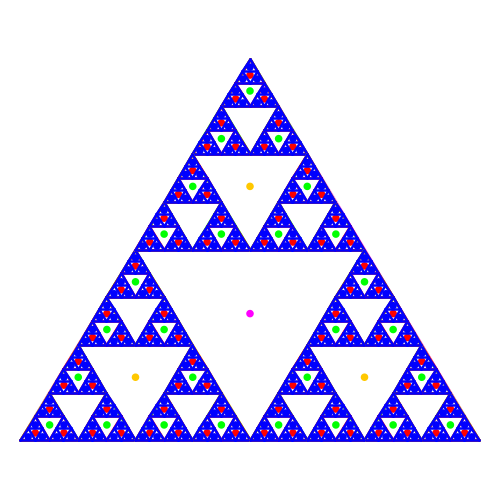
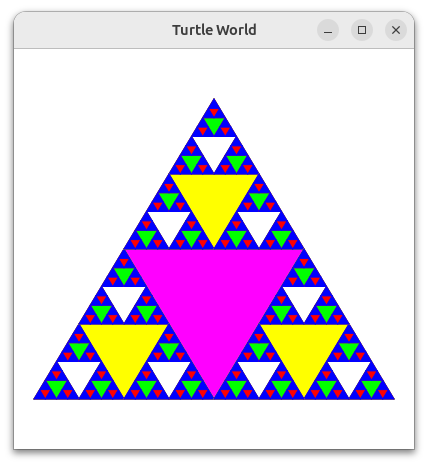
Recursion Sierpinski redid turtle library

diff --git a/source/Recursion/samplecode/src/main/kotlin/Sierpinski.kt b/source/Recursion/samplecode/src/main/kotlin/Sierpinski.kt
@@ -2,34 +2,26 @@ import java.awt.Color
 
 data class Point(var x: Double, var y: Double)
 
-fun center(p1: Point, p2: Point, p3:Point): Point {
-    return Point((p1.x + p2.x + p3.x) / 3.0, (p1.y + p2.y + p3.y) / 3.0)
-}
-
-fun drawTriangle(points: List<Point>, color: Color, t: TurtleSeward) {
-    // Move to center of triangle and draw dot
-    t.up()
-    val middle = center(points[0], points[1], points[2])
-    t.setPosition(middle.x, middle.y)
-    t.dot(color)
-
-    // Move to corner of triangle and draw it
-    t.setPosition(points[0].x, points[0].y)
-    t.down()
-    t.penColor(color)
-    t.setPosition(points[1].x, points[1].y)
-    t.setPosition(points[2].x, points[2].y)
-    t.setPosition(points[0].x, points[0].y)
+fun drawTriangle(points: List<Point>, color: Color, t: Turtle) {
+    t.penUp()
+    t.goTo(points[0].x, points[0].y)
+    t.penDown()
+    t.setColor(color)
+    t.beginFill()
+    t.goTo(points[1].x, points[1].y)
+    t.goTo(points[2].x, points[2].y)
+    t.goTo(points[0].x, points[0].y)
+    t.endFill()
 }
 
 fun midpoint(p1: Point, p2: Point): Point {
     return Point((p1.x + p2.x) / 2.0, (p1.y + p2.y) / 2.0)
 }
 
-fun sierpinski(points: List<Point>, level: Int, t: TurtleSeward) {
+fun sierpinski(points: List<Point>, level: Int, t: Turtle) {
 
     val colorMap = listOf(Color.BLUE, Color.RED, Color.GREEN,
-        Color.WHITE, Color.ORANGE, Color.MAGENTA)
+        Color.WHITE, Color.YELLOW, Color.MAGENTA, Color.ORANGE)
 
     drawTriangle(points, colorMap[level], t)
 
@@ -61,7 +53,8 @@ fun sierpinski(points: List<Point>, level: Int, t: TurtleSeward) {
 }
 
 fun main() {
-    val myTurtle = TurtleSeward()
+    val habitat = World(400, 400)
+    val myTurtle = Turtle(habitat)
 
     val points = listOf(
         Point(-180.0, -150.0),
@@ -71,5 +64,4 @@ fun main() {
 
     sierpinski(points, 5, myTurtle)
     myTurtle.hide()
-    TurtleSeward.zoomFit()
 }
